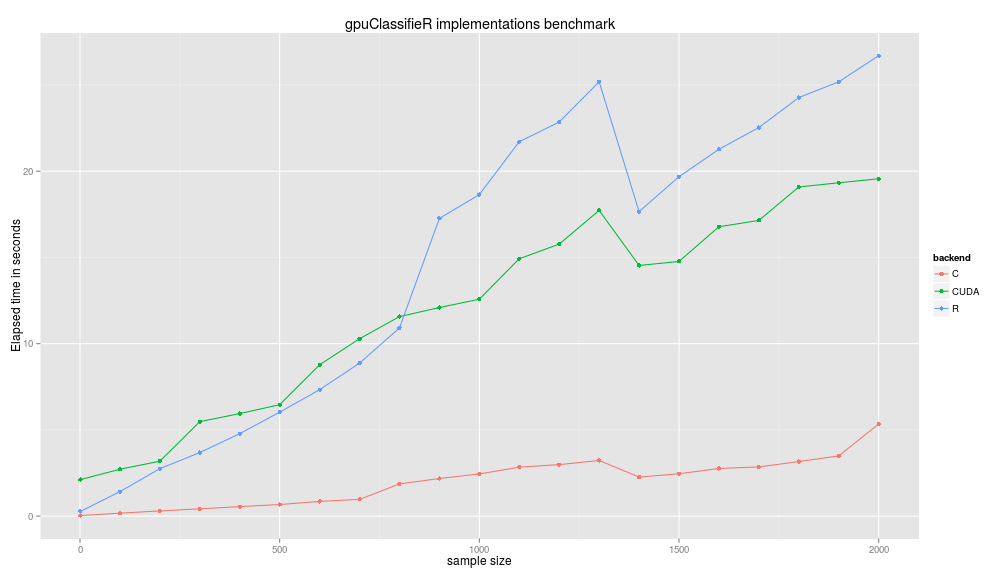
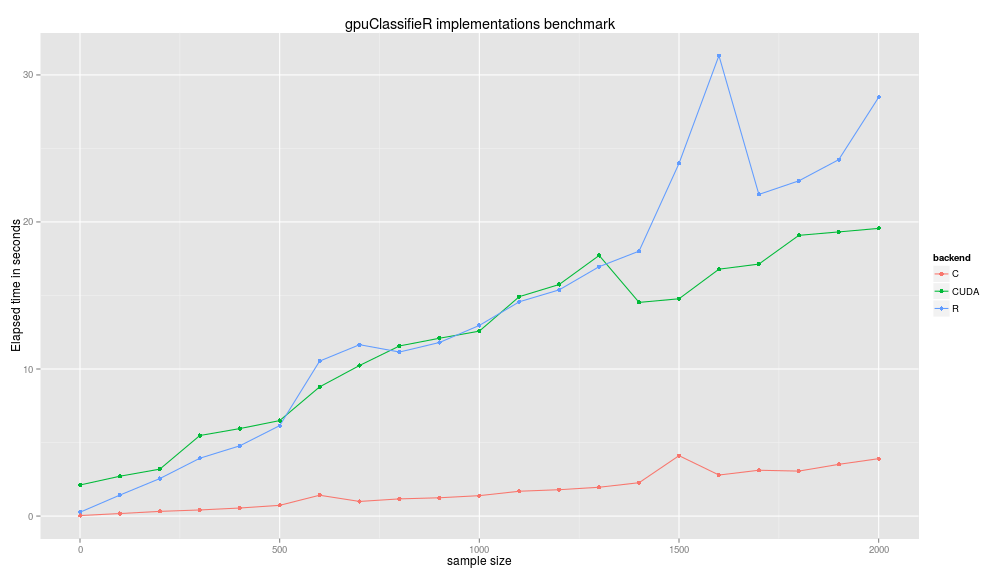
Added comparison to glmnet to benchmarks

diff --git a/misc/test.md b/misc/test.md
@@ -1,7 +1,12 @@
 ---
 title: "gpuClassifieR: a linear classifier written in C and CUDA for R"
 author: "Ishmael B."
-date: "2015-03-18"
+date: "2015-03-20"
+output: rmarkdown::html_vignette
+vignette: >
+  %\VignetteIndexEntry{gpuClassifieR}
+  %\VignetteEngine{knitr::rmarkdown}
+  \usepackage[utf8]{inputenc}
 ---
 
 # Introduction
@@ -109,12 +114,12 @@ We start by defining our benchmark functions. To stay consistent we fix the trai
 
 
 ```r
-benchmark_fun <- function(n_sample, feats, targets) {
+benchmark_fun <- function(n_sample, feats, targets, decay=0.0, maxiter=1000) {
     w_init <- mat.or.vec(NCOL(feats), NCOL(targets))
     models <- lapply(list(R=w_init, C=w_init, CUDA=w_init), Classifier)
     time <- mapply(function(X, Y) system.time(train(X, feats[1:n_sample,, drop=FALSE],
                                                     targets[1:n_sample,, drop=FALSE],
-                                                    0.0, 0.01, 1000,
+                                                    decay, 0.01, maxiter,
                                                     FALSE, -1, Y))[['elapsed']]
                  , X=models, Y=names(models),
                    SIMPLIFY=FALSE)
@@ -123,12 +128,7 @@ benchmark_fun <- function(n_sample, feats, targets) {
 ```
 
 ## Running the benchmark
-We combine the training and test sets to get 2000 points. We then time each training and repeatedly increment training examples count by 100 up to 2000.
-
-
-```
-## Loading required package: ggplot2
-```
+We combine the training and test sets to get 2000 points. We then time each training and repeatedly increment training examples count by 100 up to 2000. We fix the number of iterations at 1000 and disregard gradient convergence.
 
 ![plot of chunk benchplot](figure/benchplot-1.png) 
 
@@ -138,3 +138,11 @@ The CUDA implementations can appear disappointing. However, the following points
 - The gpu used for the benchmark is really of the lower tier (geforce 730).
 - Since implementations consistency was paramount during the development, the current CUDA code is done with double precision(to stay consistent with the R and C versions). The performance ratio of double against single performance on nvidia gpus ranges from 1/32 for the geforce 700 series to 1/3 for the GTX Titan. The next improvement to gpuClassifieR will be the addition of a single precision mode.
 - There is a large overhead with transferring data to the gpu. This overhead becomes insignificant once the sample size is large enough. A 2000 examples dataset is simply too small to benefit from  gpgpu speedup.
+
+## Benchmark against glmnet
+Let's compare the performance of our C implementation against glmnet. We'll by timing how much times it takes for glmnet to get a grid of optimal decay coefficients. We will then time our code on the provided grid. We step the maximum number of iterations to 100 for both glmnet and our implementation.
+
+![plot of chunk compareplot](figure/compareplot-1.png) 
+
+
+glmnet computes the grid in 10.28 seconds. The C implementation of gpuClassifieR goes through the grid in 15.3 seconds. glmnet is 49% faster than the C implementation of gpuClassifieR. Keep in mind that this benchmark is not really rigorous, we are comparing two packages using two different training algorithms. Nevertheless, It is reasonable to expect that gpuClassifieR will get faster. There is still a lot of room for improvement.
